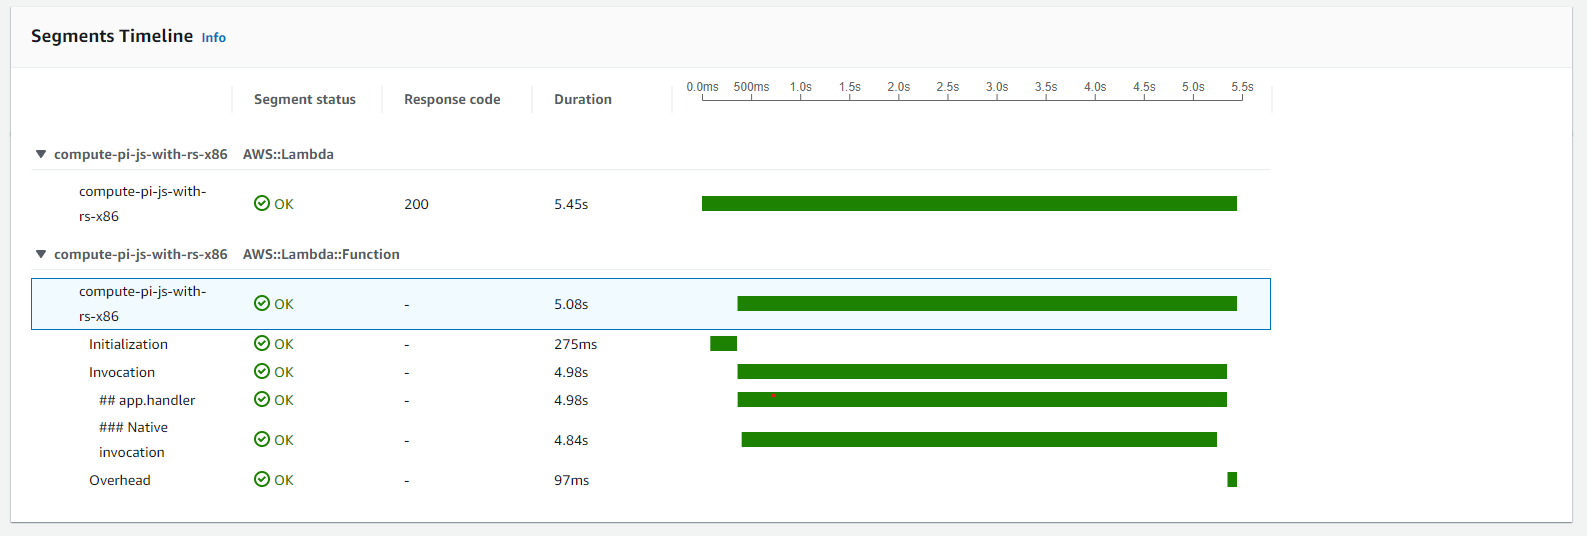
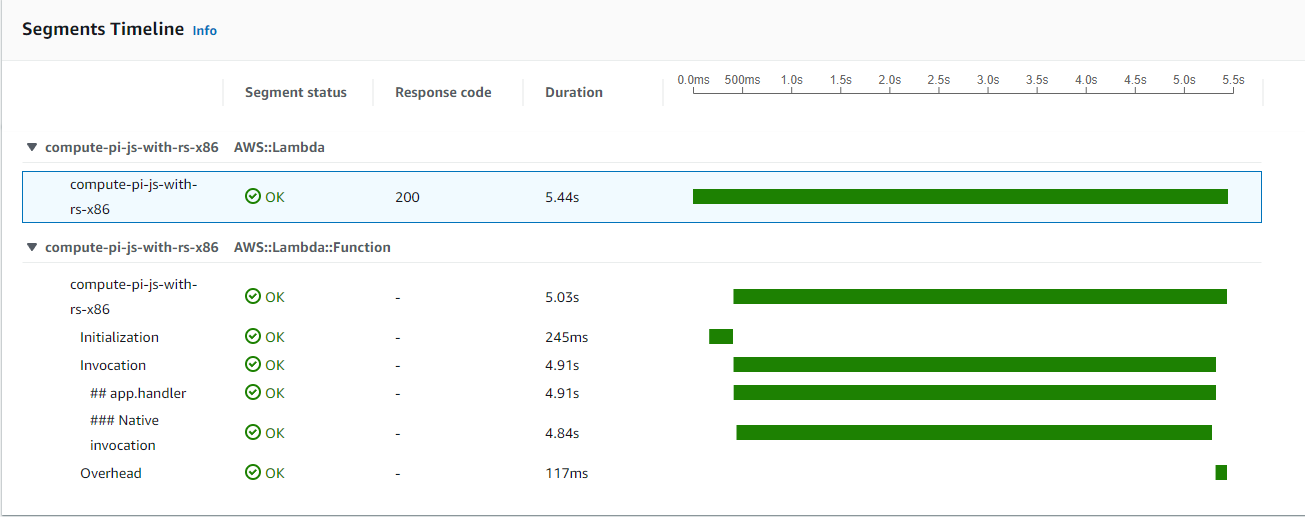
Added benchmarks. Other minor corrections.

diff --git a/src/articles/speed-up-js-lambdas-with-rust.md b/src/articles/speed-up-js-lambdas-with-rust.md
@@ -2,22 +2,22 @@
 
 ## Introduction
 
-NodeJS runtime for AWS Lambda is one of the most used and for good reasons. It is fast with short cold start duration, it is easy to develop for and to debug, it can be used for Lambda@Edge functions. Besides these, JavaScript is one of the most popular languages. Ultimately, it "just makes sense" to use JavaScript for Lambdas. Sometimes, we might found ourselves in the niche situation where would want to be able to squiz out a little bit more performance from our Lambda. In these cases, we could rewrite our whole function with using something like Rust, or we could rewrite only a portion of our code using Rust and call it using a mechanism called [foreign function interface (FFI)](https://en.wikipedia.org/wiki/Foreign_function_interface). 
+NodeJS runtime for AWS Lambda is one of the most used and for good reasons. It is fast with a short cold start duration, it is easy to develop for it, and it can be used for Lambda@Edge functions. Besides these, JavaScript is one of the most popular languages. Ultimately, it "just makes sense" to use JavaScript for Lambdas. Sometimes, we might find ourselves in a niche situation where would want to be able to squeeze out a little bit more performance from our Lambda. In these cases, we could rewrite our whole function using something like Rust, or we could rewrite only a portion of our code using Rust and call it from a NodeJS host using a mechanism named [foreign function interface (FFI)](https://en.wikipedia.org/wiki/Foreign_function_interface). 
 
-NodeJS provides an [API for addons](https://nodejs.org/api/addons.html), dynamically-linked shared objects written usually in C++. As we might guessed from the title, we are not required to use C++. There are several implementation of this API in other languages, such as Rust. Probably the most knowns are [node-ffi](https://github.com/node-ffi/node-ffi) or [Neon](https://neon-bindings.com/docs/introduction).
+NodeJS provides an [API for addons](https://nodejs.org/api/addons.html), dynamically-linked shared objects written usually in C++. As we might guess from the title, we are not required to use C++. There are several implementations of this API in other languages, such as Rust. Probably the most knowns are [node-ffi](https://github.com/node-ffi/node-ffi) or [Neon](https://neon-bindings.com/docs/introduction).
 
-In this article we would use Neon to build and load dynamic libraries in a NodeJS project.
+In this article, we would use Neon to build and load dynamic libraries in a NodeJS project.
 
 ## Build a Dynamic Library with Neon
 
-To make a function call for a binary addon from NodeJS, we have to do the following:
+To make a function call to a binary addon from NodeJS, we have to do the following:
 
-1. Import the binary addon into our JavaScript code. Binary modules should implement the [Node-API (N-API)](https://nodejs.org/api/n-api.html#node-api) and usually they have to `.node` extension. Using the `require` function from CommonJS, we can import them. In case of Neon this N-API implementation is hidden from us, we don't have to worry much about it (as long as we don't have to do some some advanced debugging)
-2. In the implementation of the binary code we have to apply some transformation of the input data. The types used by JavaScript may not be compatible for the types used by something like Rust. This conversion has to be done for the input arguments and for the returned types as well. Neon provides the Rust variant of all the primitive JavaScript types and object types.
+1. Import the binary addon into our JavaScript code. Binary modules should implement the [Node-API (N-API)](https://nodejs.org/api/n-api.html#node-api) and usually, they have to `.node` extension. Using the `require` function from CommonJS, we can import them. In the case of Neon, this N-API implementation is hidden from us, we don't have to worry much about it (as long as we don't have to do some advanced debugging)
+2. In the implementation of the binary code we have to apply some transformation of the input data. The types used by JavaScript may not be compatible with the types used by Rust. This conversion has to be done for the input arguments and the returned types as well. Neon provides the Rust variant of all the primitive JavaScript types and object types.
 3. Implement our business logic in the native code.
 4. Build the dynamic library. Rust makes this step convenient by being able to configure the `[lib]` section in the project's `toml` file. Moreover, if we are using Neon to initiate our project, this will be configured for us out of the box.
 
-As for the first step, we should create a Rust project with Neon for building a dynamic library. This can be done using `npm init neon my-rust-lib`. To be more correct, this will create a so called Neon project, which means it already has a `package.json` for handling Node related things. The project structure will look something like this:
+As for the first step, we would have to create a Rust project with Neon for building a dynamic library. This can be done using `npm init neon my-rust-lib`. To be more correct, this will create a so-called Neon project, which means it already has a `package.json` for handling Node-related things. The project structure will look something like this:
 
 ```
 my-rust-lib/
@@ -28,7 +28,7 @@ my-rust-lib/
     └── lib.rs
 ```
 
-If we take a look at the `package.json`, we will find something that resembles the following following:
+If we take a look at the `package.json`, we will find something that resembles the following:
 
 ```json
 {
@@ -54,7 +54,7 @@ If we take a look at the `package.json`, we will find something that resembles t
 
 Running `npm install` command, our dynamic library will be built in release mode. We also should notice that this will target our current CPU architecture and operating system. If we want to build this package for being used by an AWS Lambda, we will have to adjust this configuration to target Linux x86-64 or arm64.
 
-Taking a look at `lib.rs` file, we can see the entrypoint of your library exposing a function named `hello`. The return type of this function is a string. It is also important to notice the conversion from a Rust `str` point to a JsString, type which does the bridging for strings between JavaScript and Rust.
+Taking a look at `lib.rs` file, we can see the entry point of your library exposing a function named `hello`. The return type of this function is a string. It is also important to notice the conversion from a Rust's `str` point to a JsString type, which does the bridging for strings between JavaScript and Rust.
 
 ```rust
 use neon::prelude::*;
@@ -70,7 +70,7 @@ fn main(mut cx: ModuleContext) -> NeonResult<()> {
 }
 ```
 
-After we built are library, we can install it in another NodeJS project. This can be accomplished with executing:
+After we built our library, we can install it in another NodeJS project. This can be accomplished by executing:
 
 ```bash
 npm install <path>
@@ -80,9 +80,9 @@ The `<path>` should point to the location of our Neon project.
 
 ## Building a Lambda Function with an Embedded Dynamic Library
 
-In my previous article [Running Serverless Lambdas with Rust on AWS](https://ervinszilagyi.dev/articles/running-serverless-lambdas-with-rust-aws.html) we've used an unbounded spigot algorithm for computing the first N digits of PI using Rust programming language. In the following lines we will extract this algorithm into its own dynamic library and we will call it from a Lambda function written in JavaScript. This algorithm is good to measure a performance increase in case we jump from a JavaScript implementation to a Rust implementation.
+In my previous article [Running Serverless Lambdas with Rust on AWS](https://ervinszilagyi.dev/articles/running-serverless-lambdas-with-rust-aws.html) we used an unbounded spigot algorithm for computing the first N digits of PI using Rust programming language. In the following lines, we will extract this algorithm into its own dynamic library and we will call it from a Lambda function written in JavaScript. This algorithm is good to measure a performance increase in case we jump from a JavaScript implementation to a Rust implementation.
 
-First what we have to do is generate a Neon project. After that we can extract the function which computes the first N digits of PI and wrap this functions providing the glue-code between Rust and JavaScript interaction.
+First what we have to do is generate a Neon project. After that, we can extract the function which computes the first N digits of PI and wrap it into another function providing the glue-code between Rust and JavaScript interaction.
 
 The whole implementation would look similar to this:
 
@@ -155,9 +155,9 @@ fn generate_pi(limit: i64) -> Vec<i32> {
 }
 ```
 
-What is important to notice here is that we return a promise to Javascript. In the Rust code we create a new [runtime](https://docs.rs/tokio/1.20.1/tokio/runtime/index.html) for handling asynchronous function executions from which we build a promise that gets returned to JavaScript.
+What is important to notice here is that we return a promise to Javascript. In the Rust code, we create a new [runtime](https://docs.rs/tokio/1.20.1/tokio/runtime/index.html) for handling asynchronous function executions from which we build a promise that gets returned to JavaScript.
 
-Moving on, we have to create the AWS Lambda function targeting the NodeJS Lambda Runtime. The simplest way to do this is to create a NodeJS project using `npm init` with `app.js` file being as the entrypoint and install the Rust dependency as mentioned above.
+Moving on, we have to create the AWS Lambda function targeting the NodeJS Lambda Runtime. The simplest way to do this is to create a NodeJS project using `npm init` with `app.js` file as the entry point and install the Rust dependency as mentioned above.
 
 In the `app.js` we can build the Lambda handler as follows:
 
@@ -175,7 +175,7 @@ exports.handler = async (event) => {
 };
 ```
 
-This is it. To deploy this function into AWS, we have to pack the `app.js` file and the `node_modules` folder into a `zip` archive and upload it to AWS Lambda. Assuming are target architecture for the Lambda and for the dependency match (we can not have an x86-64 native dependency running on a Lambda function set to use arm64), our function should work as expected....or maybe not.
+This is it. To deploy this function into AWS, we have to pack the `app.js` file and the `node_modules` folder into a `zip` archive and upload it to AWS Lambda. Assuming our target architecture for the Lambda and for the dependency match (we can not have an x86-64 native dependency running on a Lambda function set to use arm64), our function should work as expected....or maybe not.
 
 ### `GLIBC_2.28' not found
 
@@ -185,9 +185,9 @@ It is important to note that the Rust code written by us compiles down to a dyna
 /lib64/libc.so.6: version `GLIBC_2.28' not found (required by .../compute-pi-rs-lib/index.node)
 ```
 
-The reason behind this issue, as explained in this [blog post](https://kobzol.github.io/rust/ci/2021/05/07/building-rust-binaries-in-ci-that-work-with-older-glibc.html), is that Rust dynamically link to the C standard library, more specifically the GLIBC implementation. This should not be a problem, since GLIBC should be present in essentially every Unix system, however, this becomes a challenge in case the version of the GLIBC used at build time is different compared to the version present on the system. If we are using `cross` for building our library, it may happen that the GLIBC version of the Docker container used by cross is different than the one present in the Lambda Runtime on AWS.
+The reason behind this issue, as explained in this [blog post](https://kobzol.github.io/rust/ci/2021/05/07/building-rust-binaries-in-ci-that-work-with-older-glibc.html), is that Rust dynamically links to the C standard library, more specifically the GLIBC implementation. This should not be a problem, since GLIBC should be present in essentially every Unix system, however, this becomes a challenge in case the version of the GLIBC used at build time is different compared to the version present on the system executing the binary. If we are using `cross` for building our library, the GLIBC version of the Docker container used by cross may be different than the one present in the Lambda Runtime on AWS.
 
-The solution would be to build the library on a system that has the same GLIBC version. The most reliable solution I found is to use an Amazon Linux Docker image as the build image instead of using the default cross image. `cross` has the ability to be configured to use a [custom image](https://github.com/cross-rs/cross#custom-docker-images) for compilation and building. What we have to do is to provide a Dockerfile with Amazon Linux 2 as its base image and provide additional configuration to be able to build Rust code. The Dockerfile could look like this:
+The solution would be to build the library on a system that has the same GLIBC version. The most reliable solution I found is to use an Amazon Linux Docker image as the build image instead of using the default cross image. `cross` can be configured to use a [custom image](https://github.com/cross-rs/cross#custom-docker-images) for compilation and building. What we have to do is to provide a Dockerfile with Amazon Linux 2 as its base image and provide additional configuration to be able to build Rust code. The Dockerfile could look like this:
 
 ```docker
 FROM public.ecr.aws/amazonlinux/amazonlinux:2.0.20220912.1
@@ -216,11 +216,48 @@ dockerfile = "./Dockerfile-x86-64"
 
 This `toml` file will be used automatically at each build. Instead of the base `cross` Docker image, the specified dockerfile will be used for the custom image definition.
 
-The reason for using Amazon Linux 2 is because the Lambda Runtime itself is based on that. We can find more information about runtimes and dependencies in the [AWS documentation about runtimes](https://docs.aws.amazon.com/lambda/latest/dg/lambda-runtimes.html).
+The reason for using Amazon Linux 2 is that the Lambda Runtime itself is based on that. We can find more information about runtimes and dependencies in the [AWS documentation about runtimes](https://docs.aws.amazon.com/lambda/latest/dg/lambda-runtimes.html).
 
 ## Performance and Benchmarks
 
+### Setup for Benchmarking
+
+For my previous article [Running Serverless Lambdas with Rust on AWS](https://ervinszilagyi.dev/articles/running-serverless-lambdas-with-rust-aws.html) we used an unbounded spigot algorithm to compute the first N digits of PI. We will use the same algorithm for the upcoming benchmarks as well. We had seen the implementation of this algorithm above. To summarize, our Lambda function written in NodeJS will use FFI to call a function written in Rust which will return a list with the first N number of PI. 
+
+To be able to compare our measurements with the results gathered for a Lambda written entirely in Rust, we will use the same configurations. These are `128 MB of RAM` memory allocated for a Lambda deployed in `us-east-1`. Measurements will be performed for both `x86-64` and `arm64` architectures.
+
+### Cold Start/Warm Start
+
+Using XRay, we can get an interesting breakdown of how our Lambda performs and where the time spent during each run is. For example, here we can see a trace for a cold start execution for an `x86-64` Lambda:
+
 ![Trace for an execution with cold start](img-speed-up-js-lambdas-with-rust/cold-start-trace.png)
+
+Here we can see a trace for a warm start for the same Lambda:
+
+![Trace for an execution with warm start](img-speed-up-js-lambdas-with-rust/warm-start-trace.png)
+
+As we can see, the initialization period is pretty standard for a NodeJS runtime. In my previous article, we got cold starts between 100ms and 300ms for NodeJS, the initialization period in this case falls into that interval as well. 
+
+### Performance Comparisons
+
+As with the previous article, I measured the execution time of the same Lambda function deployed targeting both `x86-64` and `arm64` architectures. These are the results I witnessed:
+
+|                | Duration - run 1 | Duration - run 2 | Duration - run 3 | Duration - run 4 | Duration - run 5 |
+|----------------|------------------|------------------|------------------|------------------|------------------|
+| x86-64         | 5029.48 ms       | 5204.80 ms       | 4811.30 ms       | 4852.36 ms       | 4829.74 ms       |
+| arm64          | 11064.26 ms      | 10703.61 ms      | 10968.51 ms      | 10755.36 ms      | 10716.85 ms      |
+
+Comparing them to vanilla NodeJS and vanilla Rust implementations, we get the following chart for `x86-64`:
+
+![Execution time comparison between JS, RS, and embedded RS in JS (x86-64)](img-speed-up-js-lambdas-with-rust/x86-64.png)
+
+With Graviton (`arm64`) it looks similar:
+
+![Execution time comparison between JS, RS, and embedded RS in JS (x86-64)](img-speed-up-js-lambdas-with-rust/arm64.png)
+
+We can see that according to my measurements, the function with the dynamic library has a similar execution time compared to the one developed in vanilla Rust. In fact, it appears that it is faster, which should not be the case, since there is some overload when using FFI. There is a difference of one month between doing the vanilla Rust measurements and the embedded dynamic library Lambda measurements. The underlying hardware may perform slightly better or I was simply lucky and got an environment that does not encounter as much load from other AWS users, or who knows...
+
+## Conclusions
 
 ## Links and References
 
@@ -232,4 +269,5 @@ The reason for using Amazon Linux 2 is because the Lambda Runtime itself is base
 6. Tokio Runtimes: [https://docs.rs/tokio/1.20.1/tokio/runtime/index.html](https://docs.rs/tokio/1.20.1/tokio/runtime/index.html)
 7. Building Rust binaries in CI that work with older GLIBC: [https://kobzol.github.io/rust/ci/2021/05/07/building-rust-binaries-in-ci-that-work-with-older-glibc.html](https://kobzol.github.io/rust/ci/2021/05/07/building-rust-binaries-in-ci-that-work-with-older-glibc.html)
 8. `cross` - Custom Docker images: [https://github.com/cross-rs/cross#custom-docker-images](https://github.com/cross-rs/cross#custom-docker-images)
-9. Lambda runtimes: [https://docs.aws.amazon.com/lambda/latest/dg/lambda-runtimes.html]()
+9. Lambda runtimes: [https://docs.aws.amazon.com/lambda/latest/dg/lambda-runtimes.html](https://docs.aws.amazon.com/lambda/latest/dg/lambda-runtimes.html)
+10. Running Serverless Lambdas with Rust on AWS: [https://ervinszilagyi.dev/articles/running-serverless-lambdas-with-rust-aws.html](https://ervinszilagyi.dev/articles/running-serverless-lambdas-with-rust-aws.html)
